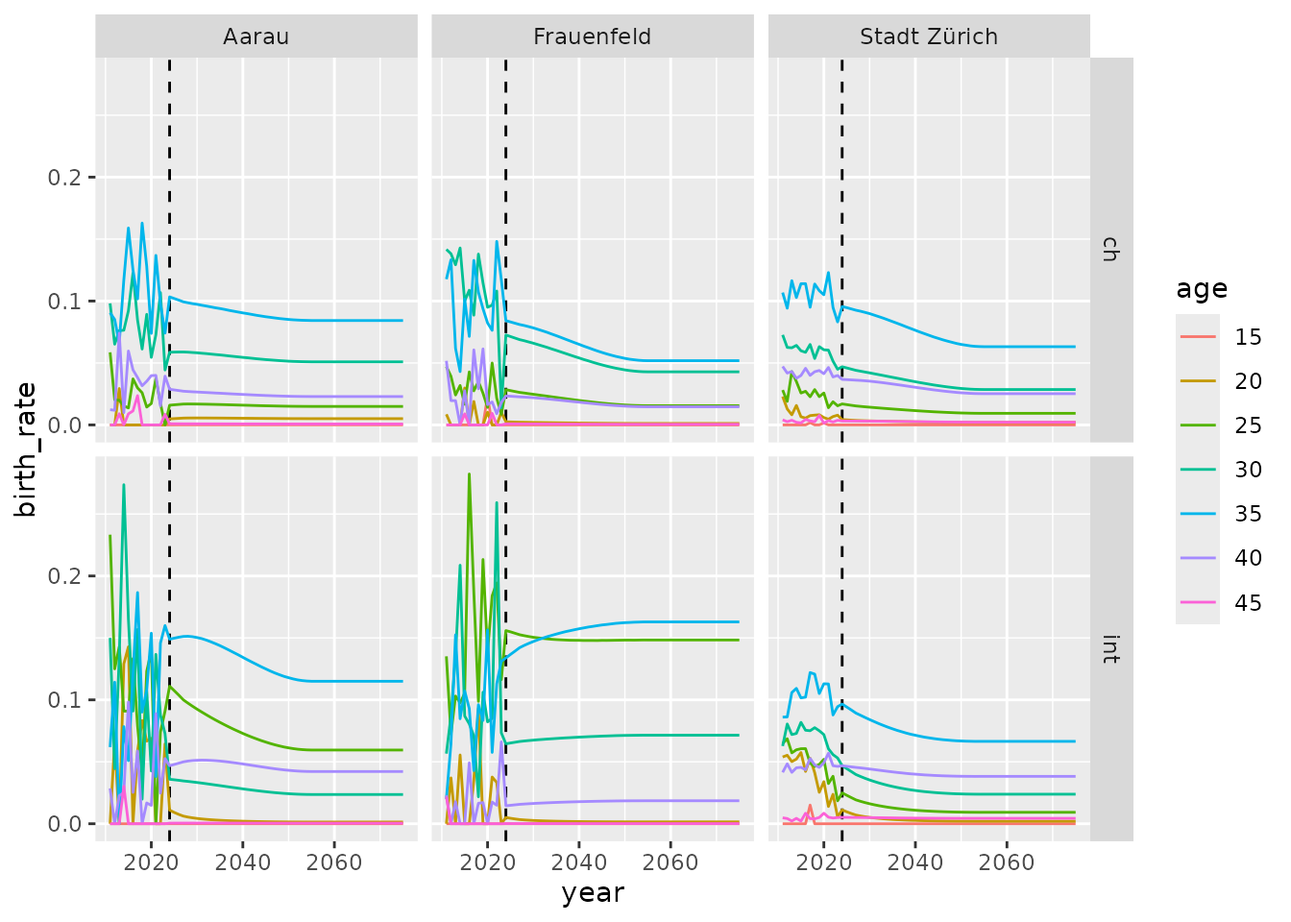
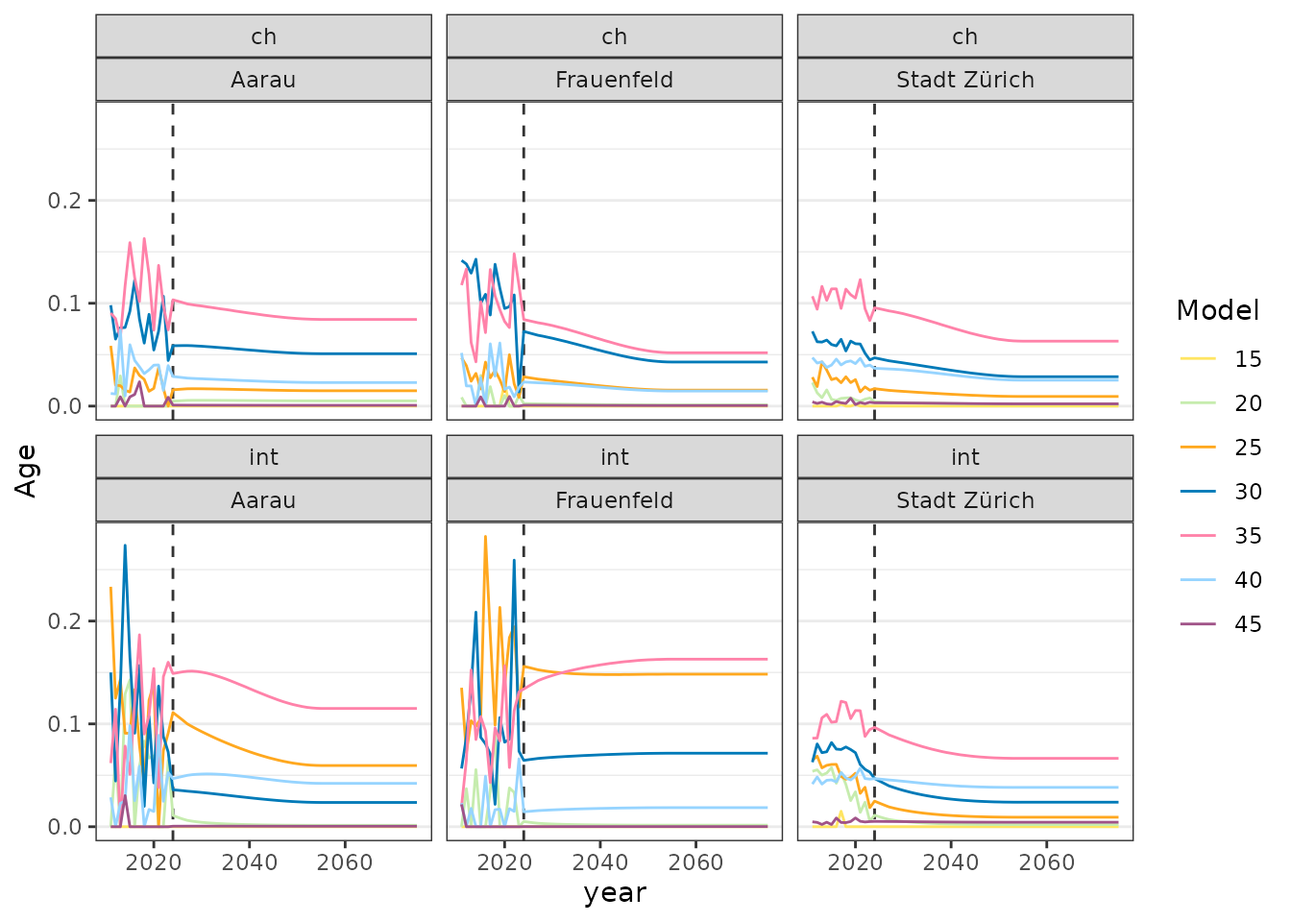
Deploying to gh-pages from @ statistik-aargau/propopbirth@1c15108a5b21df7bf8624ea3893fea137bf8a968 🚀

diff --git a/articles/forecast_fertility_rate.html b/articles/forecast_fertility_rate.html
@@ -173,8 +173,10 @@ model structure
 <code class="sourceCode R"><span><span class="fu"><a href="https://ggplot2.tidyverse.org/reference/ggplot.html" class="external-link">ggplot</a></span><span class="op">(</span><span class="va">forecast_tfr</span><span class="op">)</span> <span class="op">+</span></span>
 <span>  <span class="fu"><a href="https://ggplot2.tidyverse.org/reference/geom_path.html" class="external-link">geom_line</a></span><span class="op">(</span><span class="fu"><a href="https://ggplot2.tidyverse.org/reference/aes.html" class="external-link">aes</a></span><span class="op">(</span>x <span class="op">=</span> <span class="va">year</span>, y <span class="op">=</span> <span class="va">tfr</span>, color <span class="op">=</span> <span class="va">category</span><span class="op">)</span><span class="op">)</span> <span class="op">+</span></span>
 <span>  <span class="fu"><a href="https://ggplot2.tidyverse.org/reference/geom_point.html" class="external-link">geom_point</a></span><span class="op">(</span><span class="fu"><a href="https://ggplot2.tidyverse.org/reference/aes.html" class="external-link">aes</a></span><span class="op">(</span>x <span class="op">=</span> <span class="va">year</span>, y <span class="op">=</span> <span class="va">tfr</span>, color <span class="op">=</span> <span class="va">category</span><span class="op">)</span><span class="op">)</span> <span class="op">+</span></span>
-<span>  <span class="fu"><a href="https://ggplot2.tidyverse.org/reference/facet_grid.html" class="external-link">facet_grid</a></span><span class="op">(</span><span class="va">nat</span> <span class="op">~</span> <span class="va">spatial_unit</span><span class="op">)</span> <span class="op">+</span></span>
-<span>  <span class="fu"><a href="https://ggplot2.tidyverse.org/reference/ggtheme.html" class="external-link">theme_minimal</a></span><span class="op">(</span><span class="op">)</span></span></code></pre></div>
+<span>  <span class="fu"><a href="https://ggplot2.tidyverse.org/reference/scale_manual.html" class="external-link">scale_color_manual</a></span><span class="op">(</span>values <span class="op">=</span> <span class="fu"><a href="https://rdrr.io/r/base/c.html" class="external-link">c</a></span><span class="op">(</span><span class="st">"#ffe562"</span>, <span class="st">"#A05388"</span>, <span class="st">"#ffa81f"</span>, <span class="st">"#007AB8"</span><span class="op">)</span><span class="op">)</span> <span class="op">+</span></span>
+<span>  <span class="fu"><a href="https://ggplot2.tidyverse.org/reference/labs.html" class="external-link">labs</a></span><span class="op">(</span>color <span class="op">=</span> <span class="st">"Model"</span>, y <span class="op">=</span> <span class="st">"TFR"</span><span class="op">)</span> <span class="op">+</span></span>
+<span>  <span class="fu"><a href="https://ggplot2.tidyverse.org/reference/facet_wrap.html" class="external-link">facet_wrap</a></span><span class="op">(</span><span class="va">nat</span> <span class="op">~</span> <span class="va">spatial_unit</span><span class="op">)</span> <span class="op">+</span></span>
+<span>  <span class="fu"><a href="https://ggplot2.tidyverse.org/reference/ggtheme.html" class="external-link">theme_bw</a></span><span class="op">(</span><span class="op">)</span></span></code></pre></div>
 <p><img src="forecast_fertility_rate_files/figure-html/unnamed-chunk-4-1.png" class="r-plt" alt="The fertility rate forecast starts with the prediction of the total  fertility rate (TFR); this forecast is shown by spatial unit and  nationality." width="672"></p>
 <p>MAB forecast</p>
 <div class="sourceCode" id="cb5"><pre class="downlit sourceCode r">
@@ -195,8 +197,10 @@ model structure
 <code class="sourceCode R"><span><span class="fu"><a href="https://ggplot2.tidyverse.org/reference/ggplot.html" class="external-link">ggplot</a></span><span class="op">(</span><span class="va">forecast_mab</span><span class="op">)</span> <span class="op">+</span></span>
 <span>  <span class="fu"><a href="https://ggplot2.tidyverse.org/reference/geom_path.html" class="external-link">geom_line</a></span><span class="op">(</span><span class="fu"><a href="https://ggplot2.tidyverse.org/reference/aes.html" class="external-link">aes</a></span><span class="op">(</span>x <span class="op">=</span> <span class="va">year</span>, y <span class="op">=</span> <span class="va">mab</span>, color <span class="op">=</span> <span class="va">category</span><span class="op">)</span><span class="op">)</span> <span class="op">+</span></span>
 <span>  <span class="fu"><a href="https://ggplot2.tidyverse.org/reference/geom_point.html" class="external-link">geom_point</a></span><span class="op">(</span><span class="fu"><a href="https://ggplot2.tidyverse.org/reference/aes.html" class="external-link">aes</a></span><span class="op">(</span>x <span class="op">=</span> <span class="va">year</span>, y <span class="op">=</span> <span class="va">mab</span>, color <span class="op">=</span> <span class="va">category</span><span class="op">)</span><span class="op">)</span> <span class="op">+</span></span>
-<span>  <span class="fu"><a href="https://ggplot2.tidyverse.org/reference/facet_grid.html" class="external-link">facet_grid</a></span><span class="op">(</span><span class="va">nat</span> <span class="op">~</span> <span class="va">spatial_unit</span><span class="op">)</span> <span class="op">+</span></span>
-<span>  <span class="fu"><a href="https://ggplot2.tidyverse.org/reference/ggtheme.html" class="external-link">theme_minimal</a></span><span class="op">(</span><span class="op">)</span></span></code></pre></div>
+<span>  <span class="fu"><a href="https://ggplot2.tidyverse.org/reference/scale_manual.html" class="external-link">scale_color_manual</a></span><span class="op">(</span>values <span class="op">=</span> <span class="fu"><a href="https://rdrr.io/r/base/c.html" class="external-link">c</a></span><span class="op">(</span><span class="st">"#A05388"</span>, <span class="st">"#ffe562"</span>, <span class="st">"#ffa81f"</span>, <span class="st">"#007AB8"</span><span class="op">)</span><span class="op">)</span> <span class="op">+</span></span>
+<span>  <span class="fu"><a href="https://ggplot2.tidyverse.org/reference/labs.html" class="external-link">labs</a></span><span class="op">(</span>color <span class="op">=</span> <span class="st">"Model"</span>, y <span class="op">=</span> <span class="st">"MAB"</span><span class="op">)</span> <span class="op">+</span></span>
+<span>  <span class="fu"><a href="https://ggplot2.tidyverse.org/reference/facet_wrap.html" class="external-link">facet_wrap</a></span><span class="op">(</span><span class="va">nat</span> <span class="op">~</span> <span class="va">spatial_unit</span><span class="op">)</span> <span class="op">+</span></span>
+<span>  <span class="fu"><a href="https://ggplot2.tidyverse.org/reference/ggtheme.html" class="external-link">theme_bw</a></span><span class="op">(</span><span class="op">)</span></span></code></pre></div>
 <p><img src="forecast_fertility_rate_files/figure-html/unnamed-chunk-6-1.png" class="r-plt" alt="After the TFR the MAB forecast is needed; the MAB prediction is shown by  spatial unit and nationality." width="672"></p>
 <p>Forecast of the age-specific fertility rate</p>
 <div class="sourceCode" id="cb7"><pre class="downlit sourceCode r">
@@ -220,9 +224,18 @@ model structure
 <span>  <span class="fu"><a href="https://dplyr.tidyverse.org/reference/filter.html" class="external-link">filter</a></span><span class="op">(</span><span class="va">age</span> <span class="op"><a href="https://rdrr.io/r/base/Arithmetic.html" class="external-link">%%</a></span> <span class="fl">5</span> <span class="op">==</span> <span class="fl">0</span><span class="op">)</span> <span class="op">|&gt;</span></span>
 <span>  <span class="fu"><a href="https://dplyr.tidyverse.org/reference/mutate.html" class="external-link">mutate</a></span><span class="op">(</span>age <span class="op">=</span> <span class="fu"><a href="https://rdrr.io/r/base/factor.html" class="external-link">factor</a></span><span class="op">(</span><span class="va">age</span><span class="op">)</span><span class="op">)</span> <span class="op">|&gt;</span></span>
 <span>  <span class="fu"><a href="https://ggplot2.tidyverse.org/reference/ggplot.html" class="external-link">ggplot</a></span><span class="op">(</span><span class="op">)</span> <span class="op">+</span></span>
-<span>  <span class="fu"><a href="https://ggplot2.tidyverse.org/reference/geom_abline.html" class="external-link">geom_vline</a></span><span class="op">(</span>xintercept <span class="op">=</span> <span class="va">y_last</span> <span class="op">+</span> <span class="fl">1</span>, linetype <span class="op">=</span> <span class="fl">2</span><span class="op">)</span> <span class="op">+</span></span>
-<span>  <span class="fu"><a href="https://ggplot2.tidyverse.org/reference/geom_path.html" class="external-link">geom_line</a></span><span class="op">(</span><span class="fu"><a href="https://ggplot2.tidyverse.org/reference/aes.html" class="external-link">aes</a></span><span class="op">(</span><span class="va">year</span>, <span class="va">birth_rate</span>, color <span class="op">=</span> <span class="va">age</span><span class="op">)</span><span class="op">)</span> <span class="op">+</span></span>
-<span>  <span class="fu"><a href="https://ggplot2.tidyverse.org/reference/facet_grid.html" class="external-link">facet_grid</a></span><span class="op">(</span><span class="va">nat</span> <span class="op">~</span> <span class="va">spatial_unit</span><span class="op">)</span></span></code></pre></div>
+<span>  <span class="fu"><a href="https://ggplot2.tidyverse.org/reference/geom_abline.html" class="external-link">geom_vline</a></span><span class="op">(</span>xintercept <span class="op">=</span> <span class="va">y_last</span> <span class="op">+</span> <span class="fl">1</span>, linetype <span class="op">=</span> <span class="fl">2</span>, color <span class="op">=</span> <span class="st">"#333333"</span><span class="op">)</span> <span class="op">+</span></span>
+<span>  <span class="fu"><a href="https://ggplot2.tidyverse.org/reference/geom_path.html" class="external-link">geom_line</a></span><span class="op">(</span><span class="fu"><a href="https://ggplot2.tidyverse.org/reference/aes.html" class="external-link">aes</a></span><span class="op">(</span><span class="va">year</span>, <span class="va">birth_rate</span>, color <span class="op">=</span> <span class="va">age</span><span class="op">)</span>, linewidth <span class="op">=</span> <span class="fl">0.5</span><span class="op">)</span> <span class="op">+</span></span>
+<span>  <span class="fu"><a href="https://ggplot2.tidyverse.org/reference/scale_manual.html" class="external-link">scale_color_manual</a></span><span class="op">(</span>values <span class="op">=</span> <span class="fu"><a href="https://rdrr.io/r/base/c.html" class="external-link">c</a></span><span class="op">(</span></span>
+<span>    <span class="st">"#ffe562"</span>, <span class="st">"#c6ecae"</span>, <span class="st">"#ffa81f"</span>, <span class="st">"#007AB8"</span>, <span class="st">"#FF82a9"</span>, <span class="st">"#96D4FF"</span>, <span class="st">"#A05388"</span></span>
+<span>  <span class="op">)</span><span class="op">)</span> <span class="op">+</span></span>
+<span>  <span class="fu"><a href="https://ggplot2.tidyverse.org/reference/labs.html" class="external-link">labs</a></span><span class="op">(</span>color <span class="op">=</span> <span class="st">"Model"</span>, y <span class="op">=</span> <span class="st">"Age"</span><span class="op">)</span> <span class="op">+</span></span>
+<span>  <span class="fu"><a href="https://ggplot2.tidyverse.org/reference/facet_wrap.html" class="external-link">facet_wrap</a></span><span class="op">(</span><span class="va">nat</span> <span class="op">~</span> <span class="va">spatial_unit</span><span class="op">)</span> <span class="op">+</span></span>
+<span>  <span class="fu"><a href="https://ggplot2.tidyverse.org/reference/ggtheme.html" class="external-link">theme_bw</a></span><span class="op">(</span><span class="op">)</span> <span class="op">+</span></span>
+<span>  <span class="fu"><a href="https://ggplot2.tidyverse.org/reference/theme.html" class="external-link">theme</a></span><span class="op">(</span></span>
+<span>    panel.grid.major.x <span class="op">=</span> <span class="fu"><a href="https://ggplot2.tidyverse.org/reference/element.html" class="external-link">element_blank</a></span><span class="op">(</span><span class="op">)</span>,</span>
+<span>    panel.grid.minor.x <span class="op">=</span> <span class="fu"><a href="https://ggplot2.tidyverse.org/reference/element.html" class="external-link">element_blank</a></span><span class="op">(</span><span class="op">)</span></span>
+<span>  <span class="op">)</span></span></code></pre></div>
 <p><img src="forecast_fertility_rate_files/figure-html/unnamed-chunk-9-1.png" class="r-plt" alt="The age-specific fertility rates are shown by year (past and future),  age (selected age years), spatial unit, and nationality." width="672"></p>
 <p>Plot with age on x-axis</p>
 <div class="sourceCode" id="cb10"><pre class="downlit sourceCode r">
@@ -231,8 +244,17 @@ model structure
 <span>  <span class="fu"><a href="https://dplyr.tidyverse.org/reference/filter.html" class="external-link">filter</a></span><span class="op">(</span><span class="va">year</span> <span class="op"><a href="https://rdrr.io/r/base/Arithmetic.html" class="external-link">%%</a></span> <span class="fl">10</span> <span class="op">==</span> <span class="fl">0</span><span class="op">)</span> <span class="op">|&gt;</span></span>
 <span>  <span class="fu"><a href="https://dplyr.tidyverse.org/reference/mutate.html" class="external-link">mutate</a></span><span class="op">(</span>year <span class="op">=</span> <span class="fu"><a href="https://rdrr.io/r/base/factor.html" class="external-link">factor</a></span><span class="op">(</span><span class="va">year</span><span class="op">)</span><span class="op">)</span> <span class="op">|&gt;</span></span>
 <span>  <span class="fu"><a href="https://ggplot2.tidyverse.org/reference/ggplot.html" class="external-link">ggplot</a></span><span class="op">(</span><span class="op">)</span> <span class="op">+</span></span>
-<span>  <span class="fu"><a href="https://ggplot2.tidyverse.org/reference/geom_path.html" class="external-link">geom_line</a></span><span class="op">(</span><span class="fu"><a href="https://ggplot2.tidyverse.org/reference/aes.html" class="external-link">aes</a></span><span class="op">(</span><span class="va">age</span>, <span class="va">birth_rate</span>, color <span class="op">=</span> <span class="va">year</span><span class="op">)</span><span class="op">)</span> <span class="op">+</span></span>
-<span>  <span class="fu"><a href="https://ggplot2.tidyverse.org/reference/facet_grid.html" class="external-link">facet_grid</a></span><span class="op">(</span><span class="va">nat</span> <span class="op">~</span> <span class="va">spatial_unit</span><span class="op">)</span></span></code></pre></div>
+<span>  <span class="fu"><a href="https://ggplot2.tidyverse.org/reference/geom_path.html" class="external-link">geom_line</a></span><span class="op">(</span><span class="fu"><a href="https://ggplot2.tidyverse.org/reference/aes.html" class="external-link">aes</a></span><span class="op">(</span><span class="va">age</span>, <span class="va">birth_rate</span>, color <span class="op">=</span> <span class="va">year</span><span class="op">)</span>, linewidth <span class="op">=</span> <span class="fl">0.5</span><span class="op">)</span> <span class="op">+</span></span>
+<span>  <span class="fu"><a href="https://ggplot2.tidyverse.org/reference/scale_manual.html" class="external-link">scale_color_manual</a></span><span class="op">(</span>values <span class="op">=</span> <span class="fu"><a href="https://rdrr.io/r/base/c.html" class="external-link">c</a></span><span class="op">(</span></span>
+<span>     <span class="st">"#007AB8"</span>, <span class="st">"#ffa81f"</span>, <span class="st">"#A05388"</span>, <span class="st">"#FF82a9"</span>, <span class="st">"#ffe562"</span>, <span class="st">"#c6ecae"</span></span>
+<span>  <span class="op">)</span><span class="op">)</span> <span class="op">+</span></span>
+<span>  <span class="fu"><a href="https://ggplot2.tidyverse.org/reference/labs.html" class="external-link">labs</a></span><span class="op">(</span>color <span class="op">=</span> <span class="st">"Model"</span>, y <span class="op">=</span> <span class="st">"Year"</span><span class="op">)</span> <span class="op">+</span></span>
+<span>  <span class="fu"><a href="https://ggplot2.tidyverse.org/reference/facet_wrap.html" class="external-link">facet_wrap</a></span><span class="op">(</span><span class="va">nat</span> <span class="op">~</span> <span class="va">spatial_unit</span><span class="op">)</span> <span class="op">+</span></span>
+<span>  <span class="fu"><a href="https://ggplot2.tidyverse.org/reference/ggtheme.html" class="external-link">theme_bw</a></span><span class="op">(</span><span class="op">)</span> <span class="op">+</span></span>
+<span>  <span class="fu"><a href="https://ggplot2.tidyverse.org/reference/theme.html" class="external-link">theme</a></span><span class="op">(</span></span>
+<span>    panel.grid.major.x <span class="op">=</span> <span class="fu"><a href="https://ggplot2.tidyverse.org/reference/element.html" class="external-link">element_blank</a></span><span class="op">(</span><span class="op">)</span>,</span>
+<span>    panel.grid.minor.x <span class="op">=</span> <span class="fu"><a href="https://ggplot2.tidyverse.org/reference/element.html" class="external-link">element_blank</a></span><span class="op">(</span><span class="op">)</span></span>
+<span>  <span class="op">)</span></span></code></pre></div>
 <p><img src="forecast_fertility_rate_files/figure-html/unnamed-chunk-10-1.png" class="r-plt" alt="The age-specific fertility rates are shown by year (past and future,  selected years), age, spatial unit, and nationality." width="672"></p>
 </div>
   </main><aside class="col-md-3"><nav id="toc" aria-label="Table of contents"><h2>On this page</h2>

diff --git a/articles/prepare_data.html b/articles/prepare_data.html
@@ -255,9 +255,11 @@ then the ratio between births and population is calculated.</p>
 </h3>
 <div class="sourceCode" id="cb6"><pre class="downlit sourceCode r">
 <code class="sourceCode R"><span><span class="fu"><a href="https://ggplot2.tidyverse.org/reference/ggplot.html" class="external-link">ggplot</a></span><span class="op">(</span><span class="va">input</span><span class="op">$</span><span class="va">tfr</span><span class="op">)</span> <span class="op">+</span></span>
-<span>  <span class="fu"><a href="https://ggplot2.tidyverse.org/reference/geom_path.html" class="external-link">geom_line</a></span><span class="op">(</span><span class="fu"><a href="https://ggplot2.tidyverse.org/reference/aes.html" class="external-link">aes</a></span><span class="op">(</span>x <span class="op">=</span> <span class="va">year</span>, y <span class="op">=</span> <span class="va">tfr</span>, color <span class="op">=</span> <span class="va">nat</span><span class="op">)</span><span class="op">)</span> <span class="op">+</span></span>
+<span>  <span class="fu"><a href="https://ggplot2.tidyverse.org/reference/geom_path.html" class="external-link">geom_line</a></span><span class="op">(</span><span class="fu"><a href="https://ggplot2.tidyverse.org/reference/aes.html" class="external-link">aes</a></span><span class="op">(</span>x <span class="op">=</span> <span class="va">year</span>, y <span class="op">=</span> <span class="va">tfr</span>, color <span class="op">=</span> <span class="va">nat</span><span class="op">)</span>, linewidth <span class="op">=</span> <span class="fl">0.7</span><span class="op">)</span> <span class="op">+</span></span>
+<span>  <span class="fu"><a href="https://ggplot2.tidyverse.org/reference/scale_manual.html" class="external-link">scale_color_manual</a></span><span class="op">(</span>values <span class="op">=</span> <span class="fu"><a href="https://rdrr.io/r/base/c.html" class="external-link">c</a></span><span class="op">(</span><span class="st">"#ffa81f"</span>, <span class="st">"#A05388"</span><span class="op">)</span><span class="op">)</span> <span class="op">+</span></span>
+<span>  <span class="fu"><a href="https://ggplot2.tidyverse.org/reference/labs.html" class="external-link">labs</a></span><span class="op">(</span>color <span class="op">=</span> <span class="st">"Nationality"</span>, y <span class="op">=</span> <span class="st">"TFR"</span><span class="op">)</span> <span class="op">+</span></span>
 <span>  <span class="fu"><a href="https://ggplot2.tidyverse.org/reference/facet_wrap.html" class="external-link">facet_wrap</a></span><span class="op">(</span><span class="op">~</span> <span class="va">spatial_unit</span><span class="op">)</span> <span class="op">+</span></span>
-<span>  <span class="fu"><a href="https://ggplot2.tidyverse.org/reference/ggtheme.html" class="external-link">theme_minimal</a></span><span class="op">(</span><span class="op">)</span></span></code></pre></div>
+<span>  <span class="fu"><a href="https://ggplot2.tidyverse.org/reference/ggtheme.html" class="external-link">theme_bw</a></span><span class="op">(</span><span class="op">)</span></span></code></pre></div>
 <p><img src="prepare_data_files/figure-html/unnamed-chunk-5-1.png" class="r-plt" alt="For historical data, the development of the total fertility rate (TFR) over  time is displayed by spatial unit and nationality." width="672"></p>
 <div class="sourceCode" id="cb7"><pre class="downlit sourceCode r">
 <code class="sourceCode R"><span><span class="va">input</span><span class="op">$</span><span class="va">tfr</span> <span class="op">|&gt;</span> </span>
@@ -270,9 +272,11 @@ then the ratio between births and population is calculated.</p>
 </h3>
 <div class="sourceCode" id="cb8"><pre class="downlit sourceCode r">
 <code class="sourceCode R"><span><span class="fu"><a href="https://ggplot2.tidyverse.org/reference/ggplot.html" class="external-link">ggplot</a></span><span class="op">(</span><span class="va">input</span><span class="op">$</span><span class="va">mab</span><span class="op">)</span> <span class="op">+</span></span>
-<span>  <span class="fu"><a href="https://ggplot2.tidyverse.org/reference/geom_path.html" class="external-link">geom_line</a></span><span class="op">(</span><span class="fu"><a href="https://ggplot2.tidyverse.org/reference/aes.html" class="external-link">aes</a></span><span class="op">(</span>x <span class="op">=</span> <span class="va">year</span>, y <span class="op">=</span> <span class="va">mab</span>, color <span class="op">=</span> <span class="va">nat</span><span class="op">)</span><span class="op">)</span> <span class="op">+</span></span>
-<span>  <span class="fu"><a href="https://ggplot2.tidyverse.org/reference/facet_wrap.html" class="external-link">facet_wrap</a></span><span class="op">(</span><span class="op">~</span> <span class="va">spatial_unit</span><span class="op">)</span><span class="op">+</span></span>
-<span>  <span class="fu"><a href="https://ggplot2.tidyverse.org/reference/ggtheme.html" class="external-link">theme_minimal</a></span><span class="op">(</span><span class="op">)</span></span></code></pre></div>
+<span>  <span class="fu"><a href="https://ggplot2.tidyverse.org/reference/geom_path.html" class="external-link">geom_line</a></span><span class="op">(</span><span class="fu"><a href="https://ggplot2.tidyverse.org/reference/aes.html" class="external-link">aes</a></span><span class="op">(</span>x <span class="op">=</span> <span class="va">year</span>, y <span class="op">=</span> <span class="va">mab</span>, color <span class="op">=</span> <span class="va">nat</span><span class="op">)</span>, linewidth <span class="op">=</span> <span class="fl">0.7</span><span class="op">)</span> <span class="op">+</span></span>
+<span>  <span class="fu"><a href="https://ggplot2.tidyverse.org/reference/scale_manual.html" class="external-link">scale_color_manual</a></span><span class="op">(</span>values <span class="op">=</span> <span class="fu"><a href="https://rdrr.io/r/base/c.html" class="external-link">c</a></span><span class="op">(</span><span class="st">"#ffa81f"</span>, <span class="st">"#A05388"</span><span class="op">)</span><span class="op">)</span> <span class="op">+</span></span>
+<span>  <span class="fu"><a href="https://ggplot2.tidyverse.org/reference/labs.html" class="external-link">labs</a></span><span class="op">(</span>color <span class="op">=</span> <span class="st">"Nationality"</span>, y <span class="op">=</span> <span class="st">"MAB"</span><span class="op">)</span> <span class="op">+</span></span>
+<span>  <span class="fu"><a href="https://ggplot2.tidyverse.org/reference/facet_wrap.html" class="external-link">facet_wrap</a></span><span class="op">(</span><span class="op">~</span> <span class="va">spatial_unit</span><span class="op">)</span> <span class="op">+</span></span>
+<span>  <span class="fu"><a href="https://ggplot2.tidyverse.org/reference/ggtheme.html" class="external-link">theme_bw</a></span><span class="op">(</span><span class="op">)</span></span></code></pre></div>
 <p><img src="prepare_data_files/figure-html/unnamed-chunk-7-1.png" class="r-plt" alt="For historical data, the development of the mean age of the mother at  birth (MAB) over time is displayed by spatial unit and nationality." width="672"></p>
 <div class="sourceCode" id="cb9"><pre class="downlit sourceCode r">
 <code class="sourceCode R"><span><span class="va">input</span><span class="op">$</span><span class="va">mab</span> <span class="op">|&gt;</span> </span>
@@ -285,9 +289,11 @@ then the ratio between births and population is calculated.</p>
 </h3>
 <div class="sourceCode" id="cb10"><pre class="downlit sourceCode r">
 <code class="sourceCode R"><span><span class="fu"><a href="https://ggplot2.tidyverse.org/reference/ggplot.html" class="external-link">ggplot</a></span><span class="op">(</span><span class="va">input</span><span class="op">$</span><span class="va">fer</span><span class="op">)</span> <span class="op">+</span></span>
-<span>  <span class="fu"><a href="https://ggplot2.tidyverse.org/reference/geom_path.html" class="external-link">geom_line</a></span><span class="op">(</span><span class="fu"><a href="https://ggplot2.tidyverse.org/reference/aes.html" class="external-link">aes</a></span><span class="op">(</span>x <span class="op">=</span> <span class="va">age</span>, y <span class="op">=</span> <span class="va">fer</span>, color <span class="op">=</span> <span class="va">nat</span><span class="op">)</span><span class="op">)</span> <span class="op">+</span></span>
-<span>  <span class="fu"><a href="https://ggplot2.tidyverse.org/reference/facet_wrap.html" class="external-link">facet_wrap</a></span><span class="op">(</span><span class="op">~</span> <span class="va">spatial_unit</span><span class="op">)</span><span class="op">+</span></span>
-<span>  <span class="fu"><a href="https://ggplot2.tidyverse.org/reference/ggtheme.html" class="external-link">theme_minimal</a></span><span class="op">(</span><span class="op">)</span></span></code></pre></div>
+<span>  <span class="fu"><a href="https://ggplot2.tidyverse.org/reference/geom_path.html" class="external-link">geom_line</a></span><span class="op">(</span><span class="fu"><a href="https://ggplot2.tidyverse.org/reference/aes.html" class="external-link">aes</a></span><span class="op">(</span>x <span class="op">=</span> <span class="va">age</span>, y <span class="op">=</span> <span class="va">fer</span>, color <span class="op">=</span> <span class="va">nat</span><span class="op">)</span>, linewidth <span class="op">=</span> <span class="fl">0.7</span><span class="op">)</span> <span class="op">+</span></span>
+<span>  <span class="fu"><a href="https://ggplot2.tidyverse.org/reference/scale_manual.html" class="external-link">scale_color_manual</a></span><span class="op">(</span>values <span class="op">=</span> <span class="fu"><a href="https://rdrr.io/r/base/c.html" class="external-link">c</a></span><span class="op">(</span><span class="st">"#ffa81f"</span>, <span class="st">"#A05388"</span><span class="op">)</span><span class="op">)</span> <span class="op">+</span></span>
+<span>  <span class="fu"><a href="https://ggplot2.tidyverse.org/reference/labs.html" class="external-link">labs</a></span><span class="op">(</span>color <span class="op">=</span> <span class="st">"Nationality"</span>, y <span class="op">=</span> <span class="st">"Fertility rate"</span><span class="op">)</span> <span class="op">+</span></span>
+<span>  <span class="fu"><a href="https://ggplot2.tidyverse.org/reference/facet_wrap.html" class="external-link">facet_wrap</a></span><span class="op">(</span><span class="op">~</span> <span class="va">spatial_unit</span><span class="op">)</span> <span class="op">+</span></span>
+<span>  <span class="fu"><a href="https://ggplot2.tidyverse.org/reference/ggtheme.html" class="external-link">theme_bw</a></span><span class="op">(</span><span class="op">)</span></span></code></pre></div>
 <p><img src="prepare_data_files/figure-html/unnamed-chunk-9-1.png" class="r-plt" alt="For historical data, the age-specific fertility rate is displayed by  spatial unit and nationality (average over a selected number of years)." width="672"></p>
 <div class="sourceCode" id="cb11"><pre class="downlit sourceCode r">
 <code class="sourceCode R"><span><span class="va">input</span><span class="op">$</span><span class="va">fer</span> <span class="op">|&gt;</span> </span>

diff --git a/articles/forecast_tfr_mab.html b/articles/forecast_tfr_mab.html
@@ -366,8 +366,10 @@ period</td>
 <code class="sourceCode R"><span><span class="fu"><a href="https://ggplot2.tidyverse.org/reference/ggplot.html" class="external-link">ggplot</a></span><span class="op">(</span><span class="va">forecast_tfr_example1</span><span class="op">)</span> <span class="op">+</span></span>
 <span>  <span class="fu"><a href="https://ggplot2.tidyverse.org/reference/geom_path.html" class="external-link">geom_line</a></span><span class="op">(</span><span class="fu"><a href="https://ggplot2.tidyverse.org/reference/aes.html" class="external-link">aes</a></span><span class="op">(</span>x <span class="op">=</span> <span class="va">year</span>, y <span class="op">=</span> <span class="va">tfr</span>, color <span class="op">=</span> <span class="va">category</span><span class="op">)</span><span class="op">)</span> <span class="op">+</span></span>
 <span>  <span class="fu"><a href="https://ggplot2.tidyverse.org/reference/geom_point.html" class="external-link">geom_point</a></span><span class="op">(</span><span class="fu"><a href="https://ggplot2.tidyverse.org/reference/aes.html" class="external-link">aes</a></span><span class="op">(</span>x <span class="op">=</span> <span class="va">year</span>, y <span class="op">=</span> <span class="va">tfr</span>, color <span class="op">=</span> <span class="va">category</span><span class="op">)</span><span class="op">)</span> <span class="op">+</span></span>
-<span>  <span class="fu"><a href="https://ggplot2.tidyverse.org/reference/facet_grid.html" class="external-link">facet_grid</a></span><span class="op">(</span><span class="va">nat</span> <span class="op">~</span> <span class="va">spatial_unit</span><span class="op">)</span> <span class="op">+</span></span>
-<span>  <span class="fu"><a href="https://ggplot2.tidyverse.org/reference/ggtheme.html" class="external-link">theme_minimal</a></span><span class="op">(</span><span class="op">)</span></span></code></pre></div>
+<span>  <span class="fu"><a href="https://ggplot2.tidyverse.org/reference/scale_manual.html" class="external-link">scale_color_manual</a></span><span class="op">(</span>values <span class="op">=</span> <span class="fu"><a href="https://rdrr.io/r/base/c.html" class="external-link">c</a></span><span class="op">(</span><span class="st">"#ffe562"</span>, <span class="st">"#A05388"</span>, <span class="st">"#ffa81f"</span>, <span class="st">"#007AB8"</span><span class="op">)</span><span class="op">)</span> <span class="op">+</span></span>
+<span>  <span class="fu"><a href="https://ggplot2.tidyverse.org/reference/labs.html" class="external-link">labs</a></span><span class="op">(</span>color <span class="op">=</span> <span class="st">"Model"</span>, y <span class="op">=</span> <span class="st">"TFR"</span><span class="op">)</span> <span class="op">+</span></span>
+<span>  <span class="fu"><a href="https://ggplot2.tidyverse.org/reference/facet_wrap.html" class="external-link">facet_wrap</a></span><span class="op">(</span><span class="va">nat</span> <span class="op">~</span> <span class="va">spatial_unit</span><span class="op">)</span> <span class="op">+</span></span>
+<span>  <span class="fu"><a href="https://ggplot2.tidyverse.org/reference/ggtheme.html" class="external-link">theme_bw</a></span><span class="op">(</span><span class="op">)</span></span></code></pre></div>
 <p><img src="forecast_tfr_mab_files/figure-html/unnamed-chunk-5-1.png" class="r-plt" alt="As a first example the forecast of the total fertility rate (TFR) by spatial unit  and nationality is shown. In this example the prediction is modelled with given  target points, a linear trend model and a cubic function for the temporal period." width="672"></p>
 </div>
 <div class="section level3">
@@ -400,8 +402,10 @@ period</td>
 <code class="sourceCode R"><span><span class="fu"><a href="https://ggplot2.tidyverse.org/reference/ggplot.html" class="external-link">ggplot</a></span><span class="op">(</span><span class="va">forecast_tfr_example2</span><span class="op">)</span> <span class="op">+</span></span>
 <span>  <span class="fu"><a href="https://ggplot2.tidyverse.org/reference/geom_path.html" class="external-link">geom_line</a></span><span class="op">(</span><span class="fu"><a href="https://ggplot2.tidyverse.org/reference/aes.html" class="external-link">aes</a></span><span class="op">(</span>x <span class="op">=</span> <span class="va">year</span>, y <span class="op">=</span> <span class="va">tfr</span>, color <span class="op">=</span> <span class="va">category</span><span class="op">)</span><span class="op">)</span> <span class="op">+</span></span>
 <span>  <span class="fu"><a href="https://ggplot2.tidyverse.org/reference/geom_point.html" class="external-link">geom_point</a></span><span class="op">(</span><span class="fu"><a href="https://ggplot2.tidyverse.org/reference/aes.html" class="external-link">aes</a></span><span class="op">(</span>x <span class="op">=</span> <span class="va">year</span>, y <span class="op">=</span> <span class="va">tfr</span>, color <span class="op">=</span> <span class="va">category</span><span class="op">)</span><span class="op">)</span> <span class="op">+</span></span>
-<span>  <span class="fu"><a href="https://ggplot2.tidyverse.org/reference/facet_grid.html" class="external-link">facet_grid</a></span><span class="op">(</span><span class="va">nat</span> <span class="op">~</span> <span class="va">spatial_unit</span><span class="op">)</span> <span class="op">+</span></span>
-<span>  <span class="fu"><a href="https://ggplot2.tidyverse.org/reference/ggtheme.html" class="external-link">theme_minimal</a></span><span class="op">(</span><span class="op">)</span></span></code></pre></div>
+<span>  <span class="fu"><a href="https://ggplot2.tidyverse.org/reference/scale_manual.html" class="external-link">scale_color_manual</a></span><span class="op">(</span>values <span class="op">=</span> <span class="fu"><a href="https://rdrr.io/r/base/c.html" class="external-link">c</a></span><span class="op">(</span><span class="st">"#ffa81f"</span>, <span class="st">"#A05388"</span>, <span class="st">"#ffe562"</span>, <span class="st">"#007AB8"</span><span class="op">)</span><span class="op">)</span> <span class="op">+</span></span>
+<span>  <span class="fu"><a href="https://ggplot2.tidyverse.org/reference/labs.html" class="external-link">labs</a></span><span class="op">(</span>color <span class="op">=</span> <span class="st">"Model"</span>, y <span class="op">=</span> <span class="st">"TFR"</span><span class="op">)</span> <span class="op">+</span></span>
+<span>  <span class="fu"><a href="https://ggplot2.tidyverse.org/reference/facet_wrap.html" class="external-link">facet_wrap</a></span><span class="op">(</span><span class="va">nat</span> <span class="op">~</span> <span class="va">spatial_unit</span><span class="op">)</span> <span class="op">+</span></span>
+<span>  <span class="fu"><a href="https://ggplot2.tidyverse.org/reference/ggtheme.html" class="external-link">theme_bw</a></span><span class="op">(</span><span class="op">)</span></span></code></pre></div>
 <p><img src="forecast_tfr_mab_files/figure-html/unnamed-chunk-7-1.png" class="r-plt" alt="As a second example the forecast of the total fertility rate (TFR) by  spatial unit and nationality is shown. In this example the prediction  is modelled with a data-driven approach, a ARIMA trend model and the  Bezier function for the temporal period." width="672"></p>
 </div>
 <div class="section level3">
@@ -431,8 +435,10 @@ period</td>
 <code class="sourceCode R"><span><span class="fu"><a href="https://ggplot2.tidyverse.org/reference/ggplot.html" class="external-link">ggplot</a></span><span class="op">(</span><span class="va">forecast_tfr_example3</span><span class="op">)</span> <span class="op">+</span></span>
 <span>  <span class="fu"><a href="https://ggplot2.tidyverse.org/reference/geom_path.html" class="external-link">geom_line</a></span><span class="op">(</span><span class="fu"><a href="https://ggplot2.tidyverse.org/reference/aes.html" class="external-link">aes</a></span><span class="op">(</span>x <span class="op">=</span> <span class="va">year</span>, y <span class="op">=</span> <span class="va">mab</span>, color <span class="op">=</span> <span class="va">category</span><span class="op">)</span><span class="op">)</span> <span class="op">+</span></span>
 <span>  <span class="fu"><a href="https://ggplot2.tidyverse.org/reference/geom_point.html" class="external-link">geom_point</a></span><span class="op">(</span><span class="fu"><a href="https://ggplot2.tidyverse.org/reference/aes.html" class="external-link">aes</a></span><span class="op">(</span>x <span class="op">=</span> <span class="va">year</span>, y <span class="op">=</span> <span class="va">mab</span>, color <span class="op">=</span> <span class="va">category</span><span class="op">)</span><span class="op">)</span> <span class="op">+</span></span>
-<span>  <span class="fu"><a href="https://ggplot2.tidyverse.org/reference/facet_grid.html" class="external-link">facet_grid</a></span><span class="op">(</span><span class="va">nat</span> <span class="op">~</span> <span class="va">spatial_unit</span><span class="op">)</span> <span class="op">+</span></span>
-<span>  <span class="fu"><a href="https://ggplot2.tidyverse.org/reference/ggtheme.html" class="external-link">theme_minimal</a></span><span class="op">(</span><span class="op">)</span></span></code></pre></div>
+<span>  <span class="fu"><a href="https://ggplot2.tidyverse.org/reference/scale_manual.html" class="external-link">scale_color_manual</a></span><span class="op">(</span>values <span class="op">=</span> <span class="fu"><a href="https://rdrr.io/r/base/c.html" class="external-link">c</a></span><span class="op">(</span><span class="st">"#A05388"</span>, <span class="st">"#ffe562"</span>, <span class="st">"#ffa81f"</span>, <span class="st">"#007AB8"</span><span class="op">)</span><span class="op">)</span> <span class="op">+</span></span>
+<span>  <span class="fu"><a href="https://ggplot2.tidyverse.org/reference/labs.html" class="external-link">labs</a></span><span class="op">(</span>color <span class="op">=</span> <span class="st">"Model"</span>, y <span class="op">=</span> <span class="st">"MAB"</span><span class="op">)</span> <span class="op">+</span></span>
+<span>  <span class="fu"><a href="https://ggplot2.tidyverse.org/reference/facet_wrap.html" class="external-link">facet_wrap</a></span><span class="op">(</span><span class="va">nat</span> <span class="op">~</span> <span class="va">spatial_unit</span><span class="op">)</span> <span class="op">+</span></span>
+<span>  <span class="fu"><a href="https://ggplot2.tidyverse.org/reference/ggtheme.html" class="external-link">theme_bw</a></span><span class="op">(</span><span class="op">)</span></span></code></pre></div>
 <p><img src="forecast_tfr_mab_files/figure-html/unnamed-chunk-9-1.png" class="r-plt" alt="As a third example the forecast mean age of the mother at birth (MAB) by  spatial unit and nationality is shown. In this example the prediction is  modelled with a data-driven approach, a linear trend model and the Bezier  function for the temporal period." width="672"></p>
 </div>
 </div>

diff --git a/articles/forecast_fertility_rate.md b/articles/forecast_fertility_rate.md
@@ -89,8 +89,10 @@ forecast_tfr <- forecast_tfr_mab(
 ggplot(forecast_tfr) +
   geom_line(aes(x = year, y = tfr, color = category)) +
   geom_point(aes(x = year, y = tfr, color = category)) +
-  facet_grid(nat ~ spatial_unit) +
-  theme_minimal()
+  scale_color_manual(values = c("#ffe562", "#A05388", "#ffa81f", "#007AB8")) +
+  labs(color = "Model", y = "TFR") +
+  facet_wrap(nat ~ spatial_unit) +
+  theme_bw()
 ```
 
 ![The fertility rate forecast starts with the prediction of the total
@@ -119,8 +121,10 @@ forecast_mab <- forecast_tfr_mab(
 ggplot(forecast_mab) +
   geom_line(aes(x = year, y = mab, color = category)) +
   geom_point(aes(x = year, y = mab, color = category)) +
-  facet_grid(nat ~ spatial_unit) +
-  theme_minimal()
+  scale_color_manual(values = c("#A05388", "#ffe562", "#ffa81f", "#007AB8")) +
+  labs(color = "Model", y = "MAB") +
+  facet_wrap(nat ~ spatial_unit) +
+  theme_bw()
 ```
 
 ![After the TFR the MAB forecast is needed; the MAB prediction is shown
@@ -154,9 +158,18 @@ forecast_fer |>
   filter(age %% 5 == 0) |>
   mutate(age = factor(age)) |>
   ggplot() +
-  geom_vline(xintercept = y_last + 1, linetype = 2) +
-  geom_line(aes(year, birth_rate, color = age)) +
-  facet_grid(nat ~ spatial_unit)
+  geom_vline(xintercept = y_last + 1, linetype = 2, color = "#333333") +
+  geom_line(aes(year, birth_rate, color = age), linewidth = 0.5) +
+  scale_color_manual(values = c(
+    "#ffe562", "#c6ecae", "#ffa81f", "#007AB8", "#FF82a9", "#96D4FF", "#A05388"
+  )) +
+  labs(color = "Model", y = "Age") +
+  facet_wrap(nat ~ spatial_unit) +
+  theme_bw() +
+  theme(
+    panel.grid.major.x = element_blank(),
+    panel.grid.minor.x = element_blank()
+  )
 ```
 
 ![The age-specific fertility rates are shown by year (past and future),
@@ -171,8 +184,17 @@ forecast_fer |>
   filter(year %% 10 == 0) |>
   mutate(year = factor(year)) |>
   ggplot() +
-  geom_line(aes(age, birth_rate, color = year)) +
-  facet_grid(nat ~ spatial_unit)
+  geom_line(aes(age, birth_rate, color = year), linewidth = 0.5) +
+  scale_color_manual(values = c(
+     "#007AB8", "#ffa81f", "#A05388", "#FF82a9", "#ffe562", "#c6ecae"
+  )) +
+  labs(color = "Model", y = "Year") +
+  facet_wrap(nat ~ spatial_unit) +
+  theme_bw() +
+  theme(
+    panel.grid.major.x = element_blank(),
+    panel.grid.minor.x = element_blank()
+  )
 ```
 
 ![The age-specific fertility rates are shown by year (past and future,

diff --git a/articles/forecast_tfr_mab.md b/articles/forecast_tfr_mab.md
@@ -154,8 +154,10 @@ forecast_tfr_example1 <- forecast_tfr_mab(
 ggplot(forecast_tfr_example1) +
   geom_line(aes(x = year, y = tfr, color = category)) +
   geom_point(aes(x = year, y = tfr, color = category)) +
-  facet_grid(nat ~ spatial_unit) +
-  theme_minimal()
+  scale_color_manual(values = c("#ffe562", "#A05388", "#ffa81f", "#007AB8")) +
+  labs(color = "Model", y = "TFR") +
+  facet_wrap(nat ~ spatial_unit) +
+  theme_bw()
 ```
 
 ![As a first example the forecast of the total fertility rate (TFR) by
@@ -197,8 +199,10 @@ forecast_tfr_example2 <- forecast_tfr_mab(
 ggplot(forecast_tfr_example2) +
   geom_line(aes(x = year, y = tfr, color = category)) +
   geom_point(aes(x = year, y = tfr, color = category)) +
-  facet_grid(nat ~ spatial_unit) +
-  theme_minimal()
+  scale_color_manual(values = c("#ffa81f", "#A05388", "#ffe562", "#007AB8")) +
+  labs(color = "Model", y = "TFR") +
+  facet_wrap(nat ~ spatial_unit) +
+  theme_bw()
 ```
 
 ![As a second example the forecast of the total fertility rate (TFR) by
@@ -237,8 +241,10 @@ forecast_tfr_example3 <- forecast_tfr_mab(
 ggplot(forecast_tfr_example3) +
   geom_line(aes(x = year, y = mab, color = category)) +
   geom_point(aes(x = year, y = mab, color = category)) +
-  facet_grid(nat ~ spatial_unit) +
-  theme_minimal()
+  scale_color_manual(values = c("#A05388", "#ffe562", "#ffa81f", "#007AB8")) +
+  labs(color = "Model", y = "MAB") +
+  facet_wrap(nat ~ spatial_unit) +
+  theme_bw()
 ```
 
 ![As a third example the forecast mean age of the mother at birth (MAB)

diff --git a/articles/prepare_data.md b/articles/prepare_data.md
@@ -129,9 +129,11 @@ input <- create_input_data(
 
 ``` r
 ggplot(input$tfr) +
-  geom_line(aes(x = year, y = tfr, color = nat)) +
+  geom_line(aes(x = year, y = tfr, color = nat), linewidth = 0.7) +
+  scale_color_manual(values = c("#ffa81f", "#A05388")) +
+  labs(color = "Nationality", y = "TFR") +
   facet_wrap(~ spatial_unit) +
-  theme_minimal()
+  theme_bw()
 ```
 
 ![For historical data, the development of the total fertility rate (TFR)
@@ -147,9 +149,11 @@ input$tfr |>
 
 ``` r
 ggplot(input$mab) +
-  geom_line(aes(x = year, y = mab, color = nat)) +
-  facet_wrap(~ spatial_unit)+
-  theme_minimal()
+  geom_line(aes(x = year, y = mab, color = nat), linewidth = 0.7) +
+  scale_color_manual(values = c("#ffa81f", "#A05388")) +
+  labs(color = "Nationality", y = "MAB") +
+  facet_wrap(~ spatial_unit) +
+  theme_bw()
 ```
 
 ![For historical data, the development of the mean age of the mother at
@@ -165,9 +169,11 @@ input$mab |>
 
 ``` r
 ggplot(input$fer) +
-  geom_line(aes(x = age, y = fer, color = nat)) +
-  facet_wrap(~ spatial_unit)+
-  theme_minimal()
+  geom_line(aes(x = age, y = fer, color = nat), linewidth = 0.7) +
+  scale_color_manual(values = c("#ffa81f", "#A05388")) +
+  labs(color = "Nationality", y = "Fertility rate") +
+  facet_wrap(~ spatial_unit) +
+  theme_bw()
 ```
 
 ![For historical data, the age-specific fertility rate is displayed by
